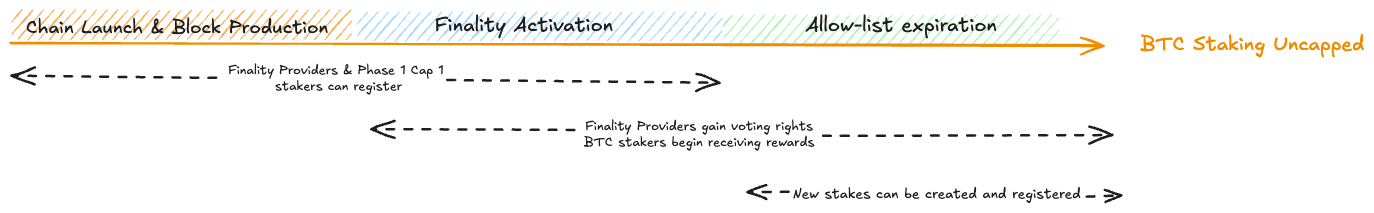
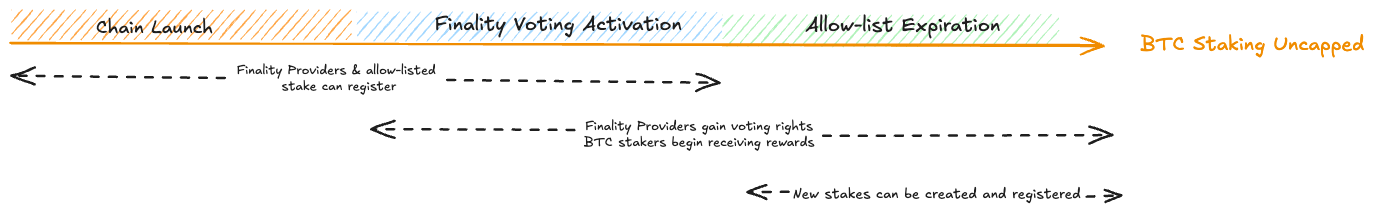
corrections formatting and image

diff --git a/docs/register-bitcoin-stake.md b/docs/register-bitcoin-stake.md
@@ -46,7 +46,7 @@ reference implementation) or using the
 Bitcoin stakes must be registered on the Babylon blockchain
 to gain voting power and earn rewards.
 This registration process involves
-submitting a registration transaction 
+submitting a registration transaction
 followed by the validation of the staking operation by key
 network components including the Babylon chain CometBFT validators
 and the covenant committee.
@@ -68,11 +68,11 @@ circumstances. In the following sections, we will explore the approaches in more
 > where `k` is a Babylon chain parameter defined in the
 > [x/btccheckpoint](../x/btccheckpoint) module (as `btc_confirmation_depth`)
 > and controlled by governance.
-> 
+>
 > Depth measures how deep a transaction's block is within the Bitcoin blockchain.
 > It is calculated as the difference between the Bitcoin tip height and the block
 > containing the transaction.
-> 
+>
 > Example: If the Bitcoin tip height is 100, then:
 > * Block 99 is 1-deep
 > * Block 90 is 10-deep
@@ -90,7 +90,7 @@ The following diagram illustrates the post-staking registration flow:
 Steps:
 1. **Generate staking metadata**: Retrieve the staking transaction
    from its included Bitcoin block and generate the proof of inclusion.
-2. **Fill the `MsgCreateBTCDelegation` message** with the  unbonding transaction, 
+2. **Fill the `MsgCreateBTCDelegation` message** with the  unbonding transaction,
   signed slashing transactions and proof of possession (POP) and broadcast it to
   the Babylon blockchain (details on how to do this will be provided in
   [Section 3.4.](#34-the-msgcreatebtcdelegation-babylon-message))
@@ -98,7 +98,7 @@ Steps:
    provide their verification signatures.
 4. **Activation**: Once a quorum of covenant signatures is reached,
    the stake is designated as `ACTIVE`.
- 
+
 ### 2.2. Pre-Staking Registration
 
 The Pre-staking registration flow  is for stakers who seek
@@ -153,11 +153,11 @@ Steps:
    Upon receiving the proof of inclusion, the stake is marked as active.
 
 > **⚠ Important**: Gas Requirements for Pre-staking registration
-> 
+>
 > Since pre-staking registration does not require prior fund commitment
 > on Bitcoin, it could be exploited for chain spamming, especially
 > due to the multiple covenant signature submissions it triggers.
-> 
+>
 > To mitigate this, submitting a `MsgCreateBTCDelegation` via
 > the pre-staking registration flow requires an increased
 > minimum gas fees that covers the gas for the staking,
@@ -178,6 +178,7 @@ while later sections detail how to create and package it into a
 Babylon registration transaction.
 
 **Key Registration Data**:
+
 * **BTC Staking Transaction**: The Bitcoin transaction that locks the Bitcoin stake
   in the self-custodial Bitcoin staking script. It can be submitted signed or unsigned,
   depending on the staking flow and UTXO inputs.
@@ -260,17 +261,17 @@ versions managed by the [x/btcstaking](../x/btcstaking) module:
 
 
 > **⚡ Retrieving Staking Parameters**
-> 
+>
 > These parameters are part of the [x/btcstaking](../x/btcstaking)
 > module parameters can be queried via a Babylon node using
 > RPC/LCD endpoints or the CLI.
 
 > **⚡ Choosing the Correct Staking Parameters**
-> 
+>
 > Stakers must ensure that their Bitcoin transaction adheres
 > to the correct parameters based on the registration flow
 > that is followed:
-> 
+>
 > * **Post-staking registration flow**: Use parameters corresponding to
 >   the Bitcoin block height in which the staking transaction is included
 >   (similar to phase-1).
@@ -389,7 +390,7 @@ message MsgCreateBTCDelegation {
   * **ECDSA**: The hex-encoded string of the staker address bytes should be signed
     Example:
     * **Babylon Staker Address**: `bbn1x3pgec70smnl7vsdzz88asnv47fdntyn5u98yg`
[2 lines of base64/hex data omitted]
       (example hex encoding)
     * **Signature using ECDSA (secp256k1)**:
[1 lines of base64/hex data omitted]
@@ -442,21 +443,21 @@ message MsgCreateBTCDelegation {
   > the staking transaction in a format that contains all the
   > necessary data to generate the full hash corresponding
   > to the fully signed transaction.
-  > 
+  >
   > For legacy inputs that require the `script_sig` field to be filled,
   > the signature **must** be included when submitting the
   > transaction to Babylon, as this field directly influences
   > the transaction hash.
-  > 
+  >
   > On the other hand, for inputs that require the `witness` field
   > (e.g., SegWit inputs), the signature **does not** need to be
   > included as part of the transaction.
-  > 
+  >
   > While this distinction doesn't affect the guarantees of staking
   > transactions following the post-staking registration flow
   > (since stakes are first committed to Bitcoin), stakers opting
   > for the pre-staking registration flow must ensure that any legacy inputs
-  > (which require the `script_sig` field) must submit the staking transaction 
+  > (which require the `script_sig` field) must submit the staking transaction
   > as **fully signed**.
   >
   > For example, if a staker creates a staking transaction with multiple inputs,
@@ -489,7 +490,7 @@ message MsgCreateBTCDelegation {
       [ (gogoproto.customtype) =
       "github.com/babylonlabs-io/babylon/types.BTCHeaderHashBytes" ];
   }
-  
+
   // in x/btcstaking module types
   message InclusionProof {
       // key is the position (txIdx, blockHash) of this tx on BTC blockchain
@@ -606,7 +607,7 @@ refer to:
 * [the Golang staking library utils](../btcstaking/witness_utils.go)
 
 > **⚡ Note: Unbonding notification on the Babylon chain**
-> 
+>
 > The Babylon system employs
 > the [Vigilante Unbonding Watcher](https://github.com/babylonlabs-io/vigilante),
 > a service that monitors the Bitcoin ledger for **on-demand unbonding transactions**
@@ -617,8 +618,8 @@ refer to:
 ### 4.2. Withdrawing Expired/Unbonded Bitcoin Stake
 
 The withdrawal process involves submitting a Bitcoin transaction
-that transfers staked BTC from Babylon protocol output (either staking or 
-unbonding or change from slashing) to the address under staker wallet control, 
+that transfers staked BTC from Babylon protocol output (either staking or
+unbonding or change from slashing) to the address under staker wallet control,
 once its timelock has expired.
 
 The process involves the following steps:
@@ -643,10 +644,10 @@ while the remaining funds are transfered to a timelock script,
 which can later be withdrawn using the same withdrawal process
 defined in the previous section.
 
-To determine the slashing timelock, refer to the `unbonding_time_blocks` 
-parameter in the [Babylon Chain BTC Staking Parameters](32-babylon-chain-btc-staking-parameters). Babylon ensures that the timelock on the change output of a slashing 
-transaction matches the unbonding time. Therefore, the unbonding time 
-parameter effectively represents your slashing timelock. The reasoning behind 
+To determine the slashing timelock, refer to the `unbonding_time_blocks`
+parameter in the [Babylon Chain BTC Staking Parameters](32-babylon-chain-btc-staking-parameters). Babylon ensures that the timelock on the change output of a slashing
+transaction matches the unbonding time. Therefore, the unbonding time
+parameter effectively represents your slashing timelock. The reasoning behind
 the timelock is that we want to avoid situation in which some finality providers
 could use slashing as a way to unbond instantly.
 
@@ -664,23 +665,23 @@ The rewards are distributed as follows:
   * Native stakers
   * Bitcoin stakers
   * Community pool
-  
+
   The allocation is controlled by specific parameters:
-  * **Bitcoin Stakers Portion**: Defined by the `btc_staking_portion` parameter, 
+  * **Bitcoin Stakers Portion**: Defined by the `btc_staking_portion` parameter,
     which specifies the portion of rewards allocated to Bitcoin stakers. This is
-    calculated based on the voting power and commission rate of the finality 
+    calculated based on the voting power and commission rate of the finality
     provider the stake has been delegated to.
-  * **Community Pool Portion**: Typically defined in the `x/distribution` 
+  * **Community Pool Portion**: Typically defined in the `x/distribution`
     module of the Cosmos SDK, often referred to as the community tax.
-  * **Native Stakers Portion**: The remaining rewards, after allocations to 
+  * **Native Stakers Portion**: The remaining rewards, after allocations to
     Bitcoin stakers and the community pool, are distributed to native stakers.
-    
+
 * Rewards for Bitcoin stakers are further distributed based on the voting power
   and commission rate of the finality provider the stake has been delegated to.
   The rewards are entered into a gauge, which stakers can query and withdraw
   from through a transaction submission.
-* Rewards are distributed when a block is finalized. The system processes 
-  finalized blocks to ensure that all eligible stakers receive their rewards 
+* Rewards are distributed when a block is finalized. The system processes
+  finalized blocks to ensure that all eligible stakers receive their rewards
   based on the voting power and commission rates at the time of finalization.
 
 ### 5.2. Rewards Withdrawal
@@ -709,9 +710,9 @@ The message defines the following fields:
 Rewards can be withdrawn by:
 * Submitting the `MsgWithdrawReward` via any RPC/LCD node
 * Using the CLI `babylond tx incentive withdraw-reward <type>`
-* You can claim rewards programmatically using the 
+* You can claim rewards programmatically using the
   TypeScript implementation. Please refer to the [TypeScript claim rewards implementation](https://github.com/babylonlabs-io/simple-staking/blob/main/src/app/hooks/services/useRewardsService.ts#L49).
- 
+
 **Querying for available rewards**:
 Rewards can be checked using the `x/incentive` module:
 * **via an RPC/LCD query**
@@ -719,5 +720,5 @@ Rewards can be checked using the `x/incentive` module:
   where `address` is the bech32 address of the staker.
 * **via the CLI command**
   `babylond query incentive reward-gauges <bech32-address>`
-* **via TypeScript**: You can use the TypeScript implementation to query rewards. 
+* **via TypeScript**: You can use the TypeScript implementation to query rewards.
 Please refer to the [TypeScript library documentation](https://github.com/babylonlabs-io/simple-staking/blob/main/src/app/hooks/client/rpc/queries/useBbnQuery.ts).

diff --git a/x/btcstaking/docs/registration-eligibility.md b/x/btcstaking/docs/registration-eligibility.md
@@ -1,12 +1,15 @@
 # Staking Registration Eligibility
 
 1. [Introduction](#1-introduction)
-2. [Timeline of Events](#2-timeline-of-events)
-    1. [Chain launch](#21-chain-launch)
-    2. [Allow-list](#22-allow-list)
-    3. [Staking protocol and finality activation](#23-staking-protocol-and-finality-activation)
-3. [Retrieving details about the timeline](#3-retrieving-details-about-the-timeline)
-4. [FAQs](#4-faqs)
+2. [Terminology](#2-terminology)
+    1. [Bitcoin Stake Registration](#21-bitcoin-stake-registration)
+    2. [Stakes Allow-List](#22-stakes-allow-list)
+    3. [Finality Voting Activation](#23-finality-voting-activation)
+3. [Timeline of Events](#3-timeline-of-events)
+    1. [Chain Launch](#31-chain-launch)
+    2. [Finality Voting Activation](#32-finality-voting-activation)
+    3. [Allow-list Expiration](#33-allow-list-expiration)
+4. [Retrieving details about the timeline](#4-retrieving-details-about-the-timeline)
 
 ## 1. Introduction
 
@@ -14,6 +17,7 @@ This document outlines the various stages of the Babylon chain launch
 and details the points in which different finality providers
 and BTC stakes are eligible for registration.
 The launch is structured into three key stages:
+
 * **Stage 1: Chain Launch**: At this stage, only
   finality providers and allow-listed stakes can register.
   The allow-list specifies a list of transaction hashes that
@@ -105,6 +109,7 @@ The chain launch procedure involves the Babylon Chain
 starting to produce blocks that contain transactions.
 At this point, the following actors can start onboarding
 into the chain:
+
 * **CometBFT Validators**: CometBFT validators can permissionlessly
   submit validator registration transactions and become eligible
   for producing Babylon blocks. More details on the CometBFT
@@ -168,15 +173,19 @@ relevant code.
 **Retrieving the Activation Block Height**
 The Finality Activation block height can be retrieved by the
 [x/btcstaking](../README.md) parameters. You can retrieve those:
+
 * through the CLI and an RPC node connection
+
 ```shell
 babylond query btcstaking params --node <rpcnode>
 ```
+
 * through an LCD/API node connection (you can find one
   for the Babylon Genesis public networks
   [here](https://github.com/babylonlabs-io/networks))
 * by parsing through the upgrade handler responsible for specifying it
   (e.g., for testnet)
+
 ```shell
 app/upgrades/v1/testnet/btcstaking_params.go
 ```
@@ -187,6 +196,7 @@ the codebase for each different deployed
 [network](https://github.com/babylonlabs-io/networks).
 For example, the testnet allow-list transaction
 hashes can be found here:
+
 ```shell
 app/upgrades/v1/testnet/allowed_staking_tx_hashes.go
 ```
